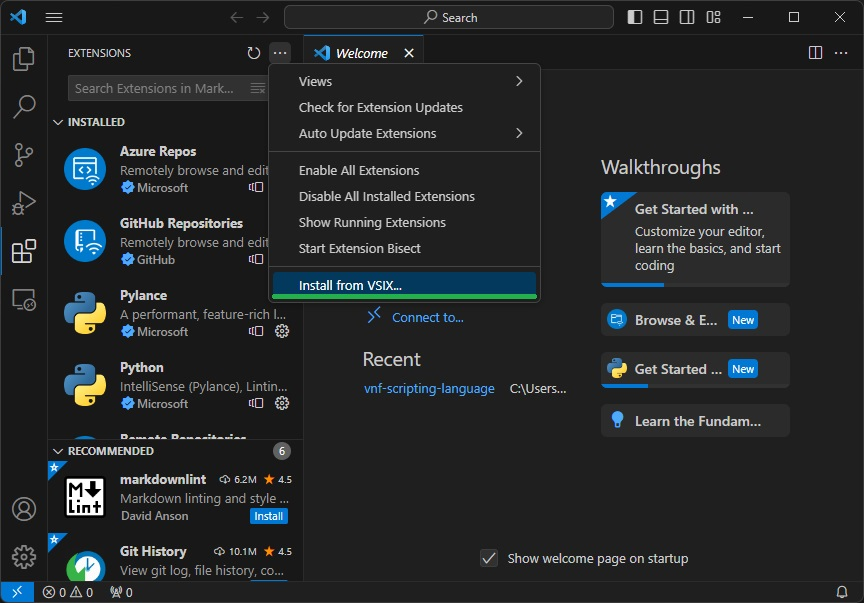
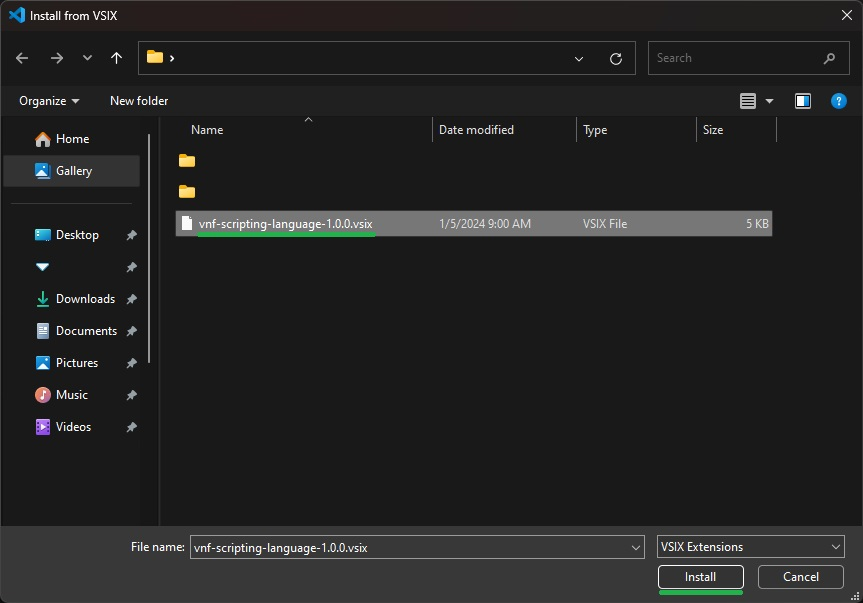
md and collapse and renamed

diff --git a/README.md b/README.md
@@ -17,12 +17,20 @@ This extension enables syntax highlighting for VNF scripting laguage files.
 
     Select `Install from VSIX` from the dropdown menu. This will open a file dialog.
 
-![Step 2 Part 1](images/2.jpg)
-![Step 2 Part 2](images/3.jpg)
+<details>
+
+<summary>Step 2 Screenshots</summary>
+
+![Step 2 Part A](images/2a.jpg)
+![Step 2 Part B](images/2b.jpg)
+</details>
 
 3. In the file dialog, navigate to the location where your .vsix file is saved. Select the file and click Open.
 
-![Step 3](images/4.jpg)
+<summary><b>**Step 3 Screenshot</b></summary>
+
+![Step 3](images/3.jpg)
+</details>
 
 4. After selecting the file, Visual Studio Code will install the extension. This process usually only takes a few seconds.
 5. Once the installation is complete, you may be prompted to reload Visual Studio Code to enable the newly installed extension. Click Reload Now if prompted.
